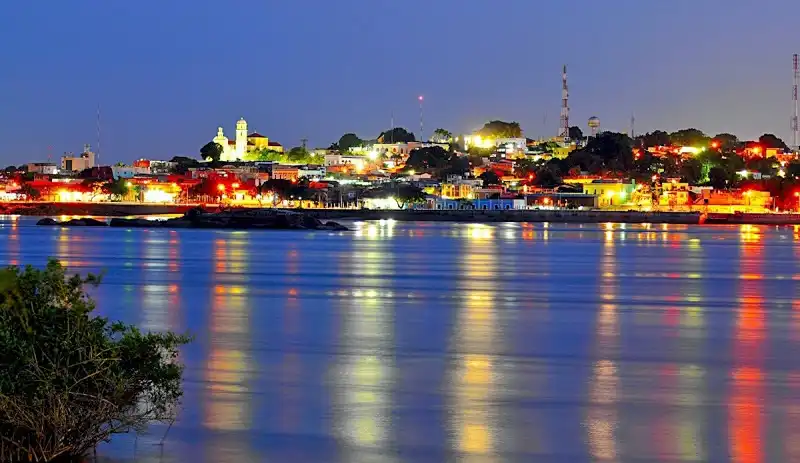
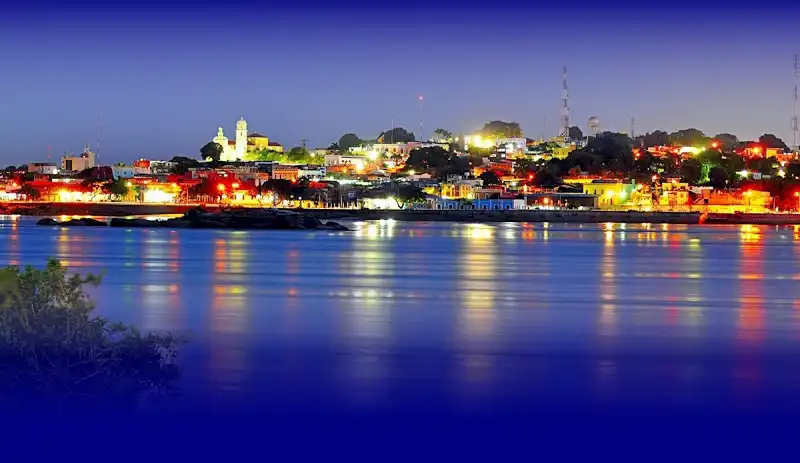
place 1.5

diff --git a/styles/place-large.css b/styles/place-large.css
@@ -3,13 +3,14 @@
   --header-bg-color: rgb(255, 255, 0, 80%);
   --header-font-color: rgb(54, 34, 28);
   --header-font-shadow-color: rgb(0, 0, 0, 100%);
-  --footer-bg-color: rgb(255, 0, 0, 80%);
+  --footer-bg-color: rgb(255, 0, 0, 75%);
   --footer-font-color: rgb(255, 255, 255, 100%);
-  --h2-bg-color: rgb(0, 0, 128, 80%);
+  --h2-bg-color: rgb(0, 0, 128, 100%);
+  --h2-bg-tr-color: rgb(0, 0, 128, 90%);
   --h2-font-color: rgb(255, 255, 255, 100%);
   --main-bg: rgb(255, 255, 255, 100%);
   --main-font-color: rgb(0, 0, 0, 100%);
-  --card-bg-color: rgb(255, 255, 255, 80%);
+  --card-bg-color: rgb(255, 255, 255, 70%);
   --alt-color: rgb(139, 0, 0);
   --alt-color2: rgb(128, 128, 0);
 
@@ -30,6 +31,7 @@ body {
   background-color: var(--body-bg-color);
   background-image: linear-gradient(var(--main-bg), var(--body-bg-color));
   border: #808000 1px solid;
+  /* overflow: hidden; */
 }
 
 header h1 {
@@ -42,15 +44,17 @@ header h1 {
   height: 6rem;
   /* text-shadow: 3px 3px 1px var(--card-bg-color); */
   text-shadow: -1px -1px 2px var(--header-font-color), 3px 3px 2px var(--header-font-shadow-color);
+  /* overflow: hidden; */
 }
 
 header h2 {
   background-color: var(--h2-bg-color);
   color: var(--h2-font-color);
-  font-size: 1.5rem;
+  font-size: 0.75rem;
   text-align: center;
   align-content: center;
-  height: 3rem;
+  height: 1rem;
+  /* overflow: hidden; */
 }
 
 main {
@@ -69,16 +73,6 @@ main {
   overflow: hidden;
 }
 
-/* .hero {
-  display: block;
-  border: var(--main-font-color) 1px solid;
-
-  width: 600px;
-  height: auto;
-  height: 946px;
-
-} */
-
 .hero img {
   border: #80007a 1px solid;
   display: block;
@@ -88,25 +82,7 @@ main {
   align-content: center;
 }
 
-.card {
-  /* border: var(--main-font-color) 1px solid; */
-  border-radius: 12px;
-  background-color: var(--card-bg-color);
-  overflow: hidden;
-  width: 300px;
-}
 
-.data {
-  position: absolute;
-  top: 10px;
-  left: 10px;
-}
-
-.weather {
-  position: absolute;
-  bottom: 10px;
-  right: 10px;
-}
 
 
 /* .card h2 {
@@ -135,7 +111,7 @@ main {
 footer {
   display: block;
   position: relative;
-  /* top: -5px; */
+  top: -5px;
   /* position: absolute; */
   bottom: 0;
   background-color: var(--footer-bg-color);
@@ -144,4 +120,5 @@ footer {
   align-content: center;
   font-size: 1rem;
   height: 6rem;
+  /* min-height: 5vh; */
 }

diff --git a/styles/place-small.css b/styles/place-small.css
@@ -14,6 +14,7 @@
     /* width: 800px; */
     /* margin: 10px; */
 
+
   }
 
   .hero {
@@ -28,5 +29,42 @@
     height: 100%;
     /* object-fit: contain; */
     /* object-fit: cover; */
+  }
+
+  .card {
+    /* border: var(--main-font-color) 1px solid; */
+
+    background-color: var(--card-bg-color);
+    position: relative;
+    /* overflow: hidden; */
+    width: 300px;
+    width: 300px;
+    height: 200px;
+  }
+
+  .card h2 {
+    position: absolute;
+    top: 10px;
+    left: -10px;
+    background-color: var(--h2-bg-tr-color);
+    color: var(--h2-font-color);
+    border-radius: 5px;
+    font-size: large;
+    width: 75%;
+    padding: 10px 20px;
+  }
+
+  .data {
+    position: absolute;
+    top: 10px;
+    left: 10px;
+    margin: 10px;
+    padding: 15px;
+  }
+
+  .weather {
+    position: absolute;
+    bottom: 10px;
+    right: 10px;
   }
 }